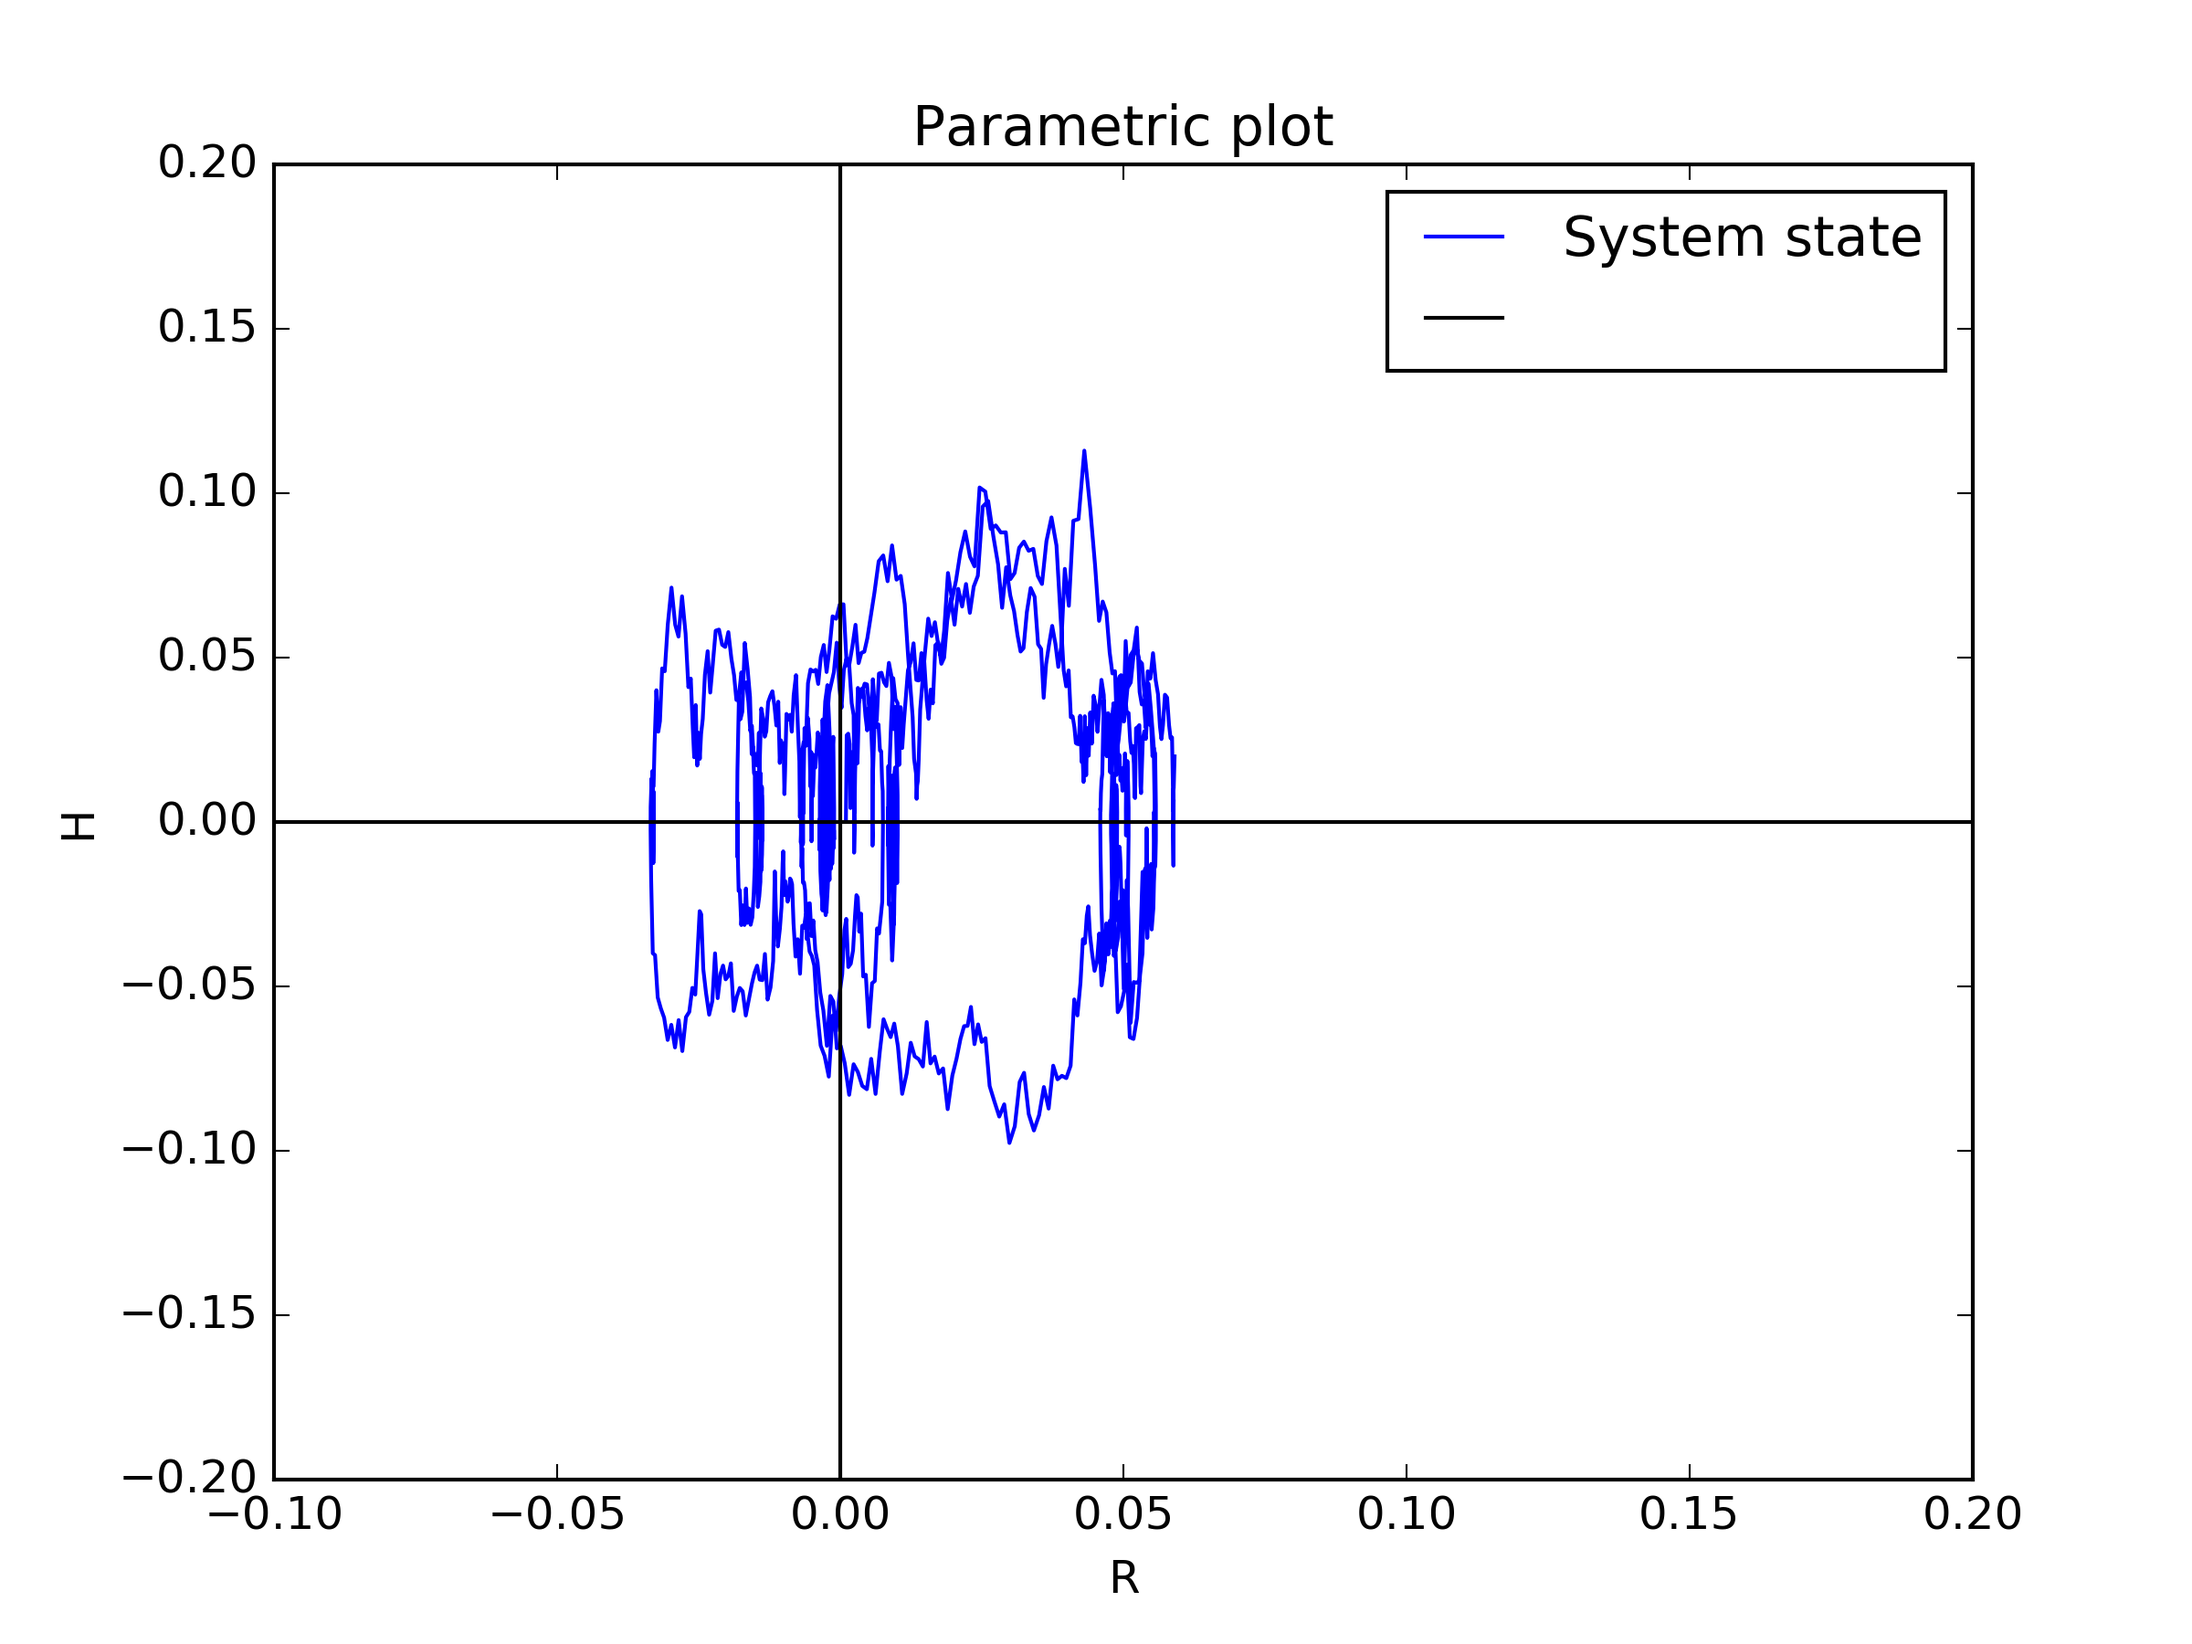
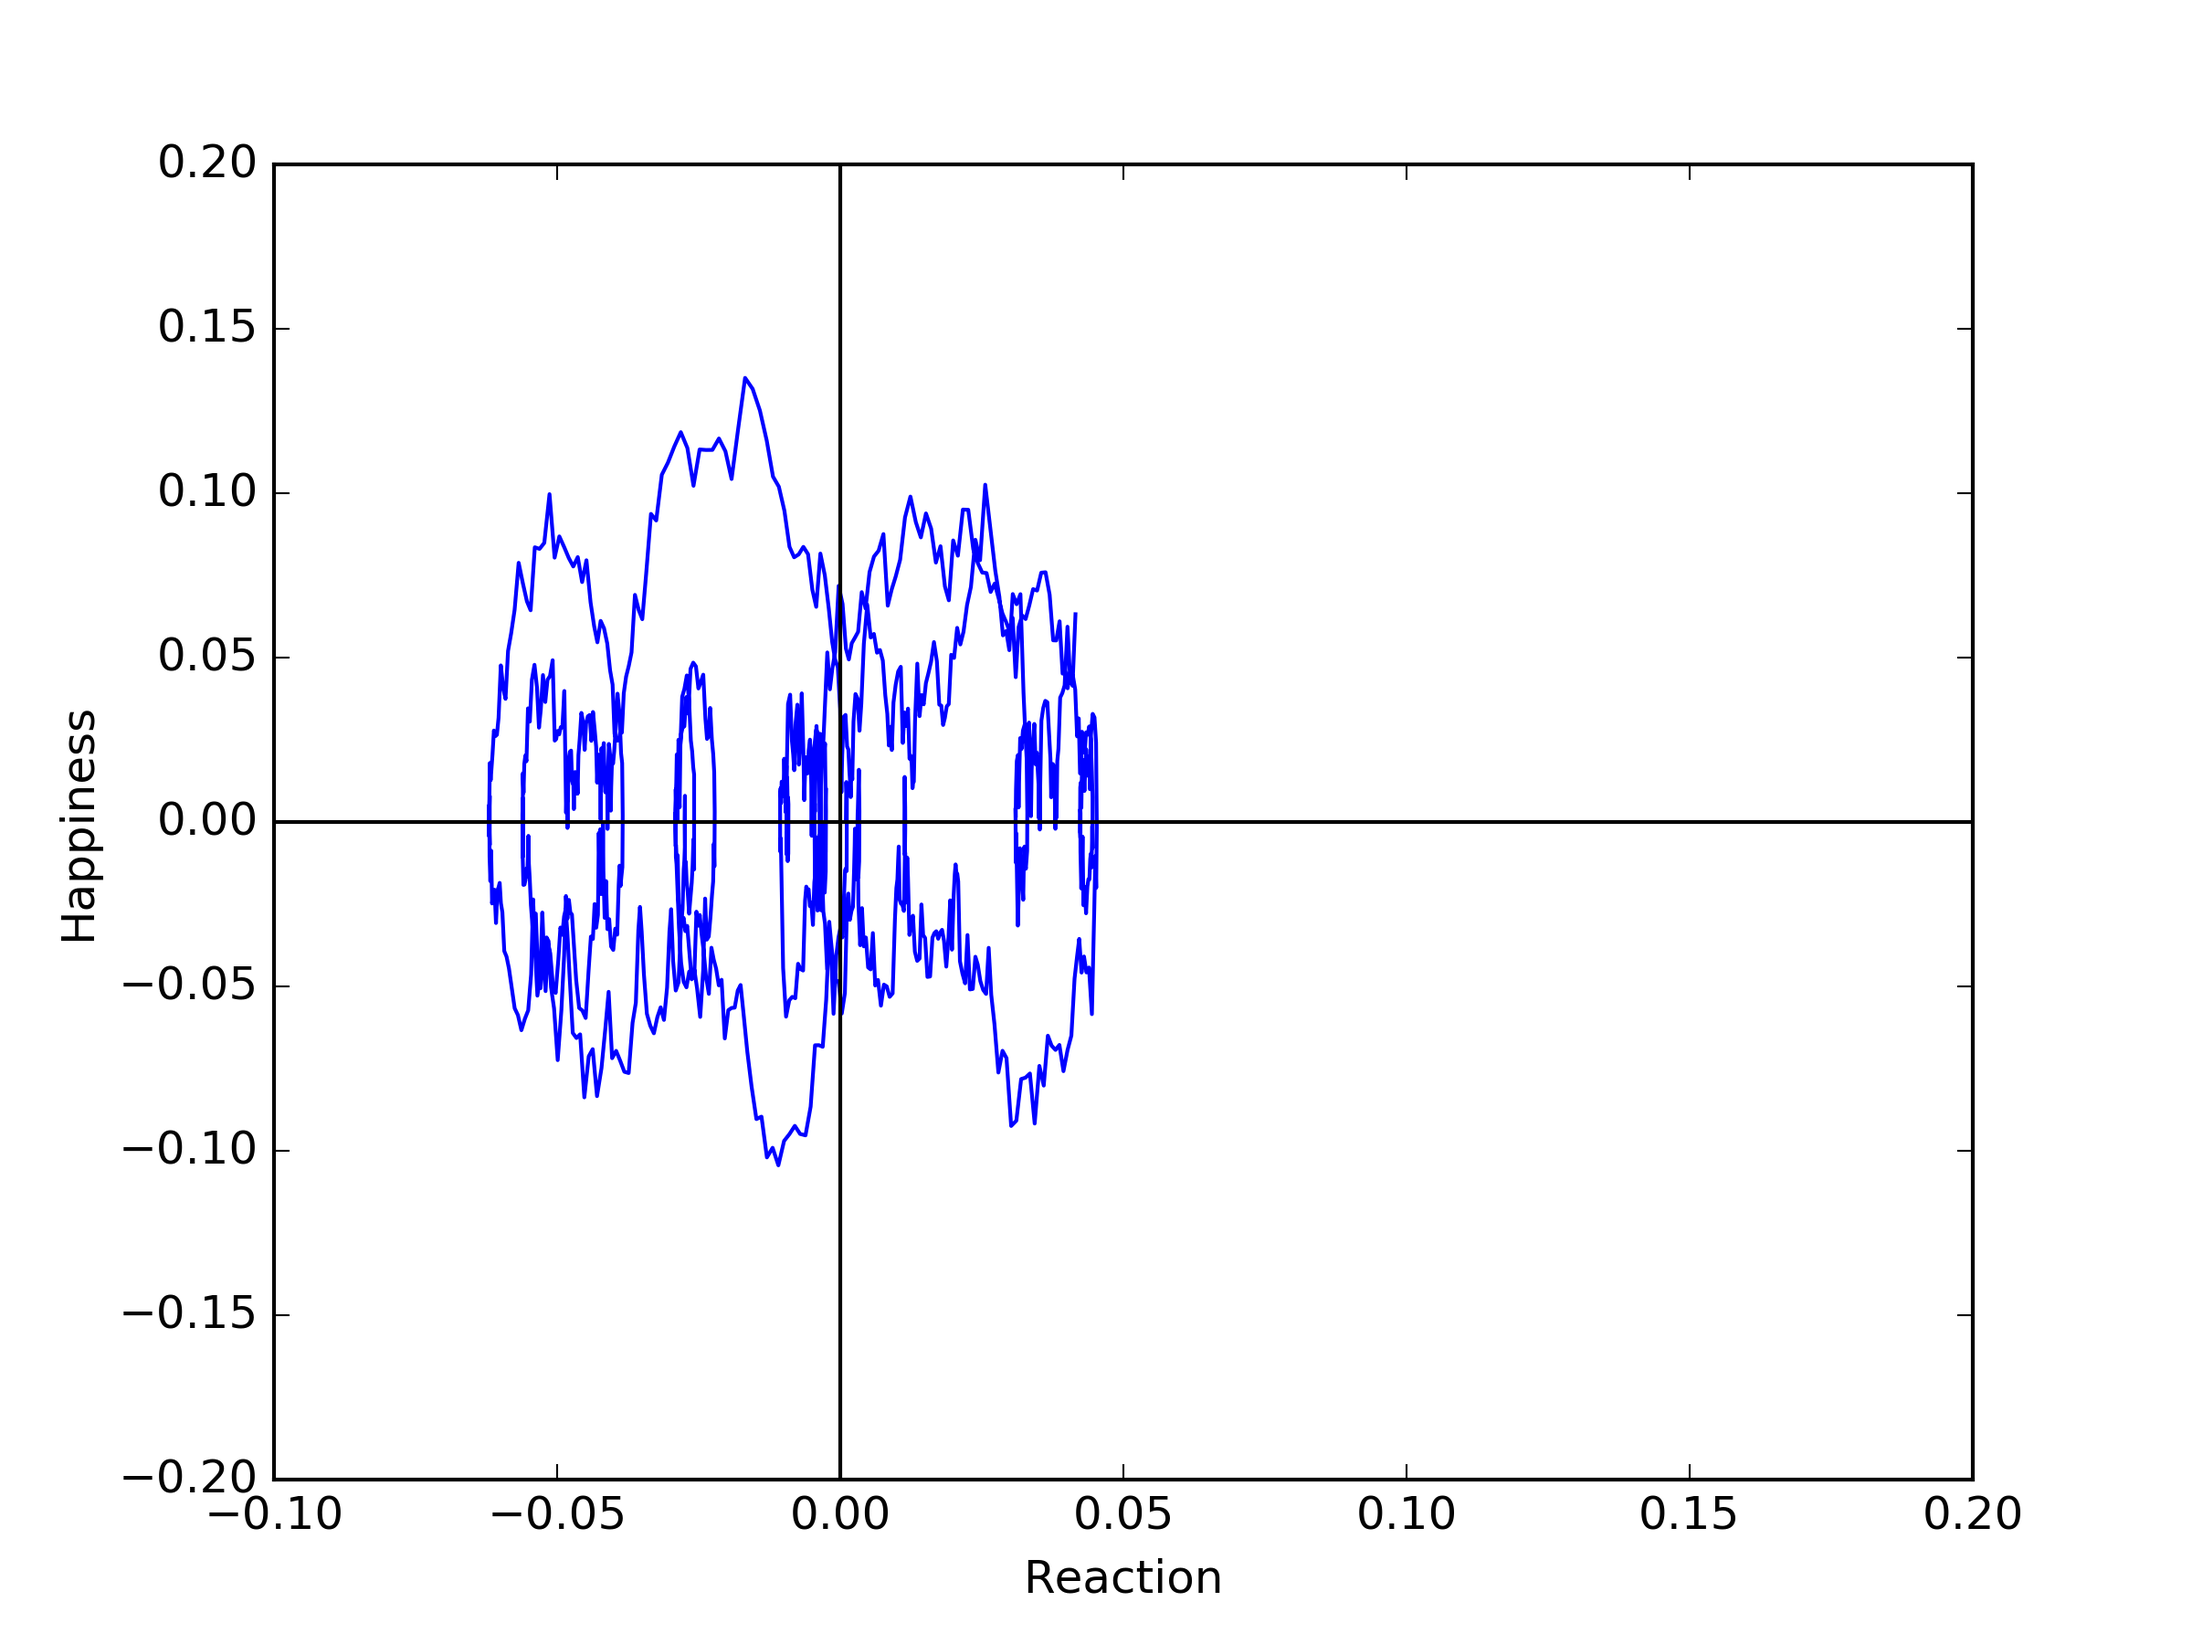
real plots fix

diff --git a/real.py b/real.py
@@ -33,7 +33,7 @@ p.ylim([-0.5, 0.5])
 p.xlabel('Time')
 p.legend(('R', 'H'))
 p.title('Real life')
-# p.savefig('Real Life.png', dpi=300)  #  uncomment to save plots
+p.savefig('Real Life.png', dpi=300)  #  uncomment to save plots
 p.show()
 
 p.figure()
@@ -43,9 +43,7 @@ p.axhline(0, color='black')
 p.axvline(0, color='black')
 p.xlabel('Reaction')
 p.ylabel('Happiness')
-p.legend(('System state', ''))
-p.title('Parametric plot')
-# p.savefig('Real Life Parametric.png', dpi=300)  #  uncomment to save plots
+p.savefig('Real Life Parametric.png', dpi=300)  #  uncomment to save plots
 p.show()
 
 p.figure()
